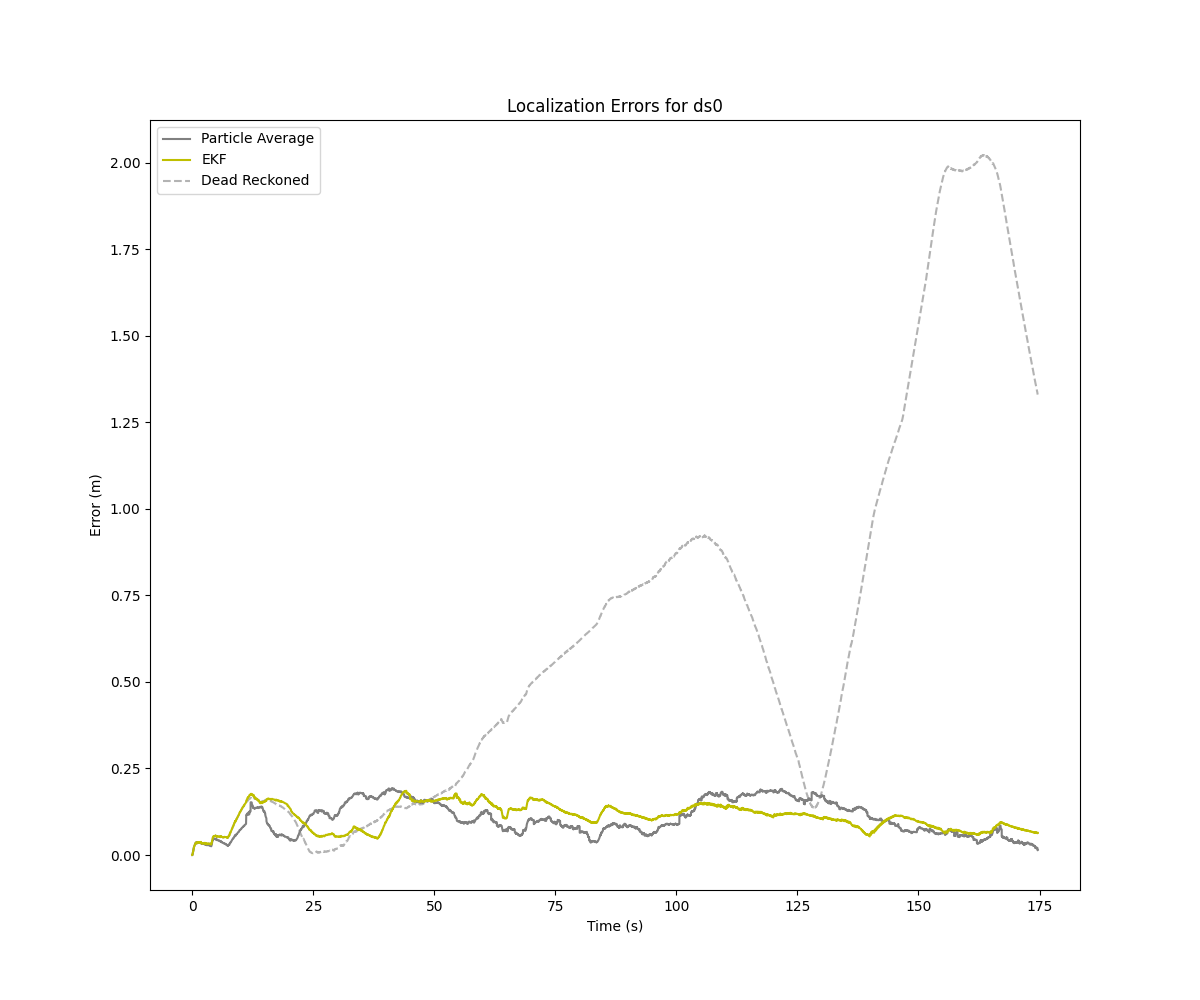
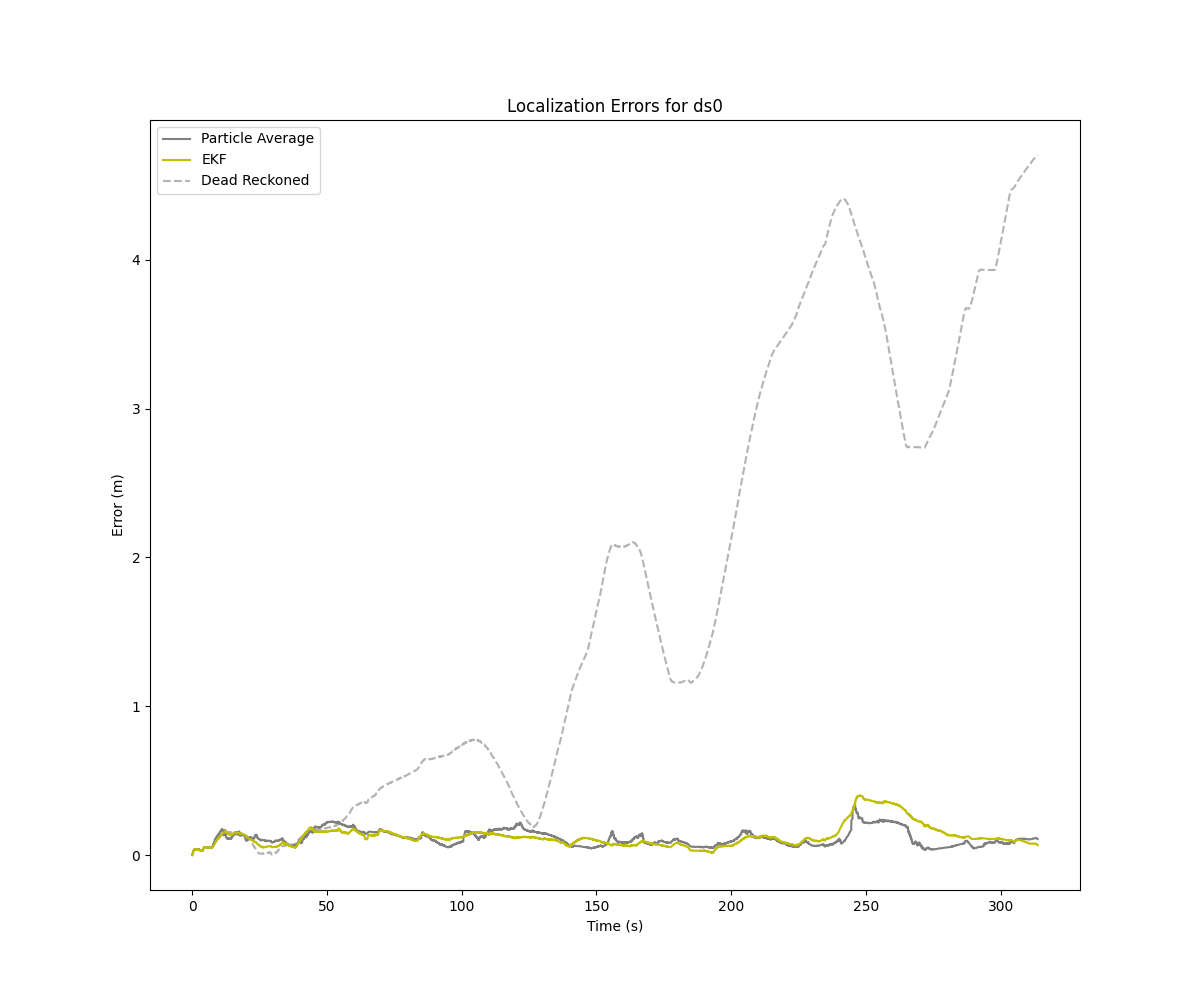
incorporate noise directly in particle motion model

diff --git a/hw0/bayes_filter.py b/hw0/bayes_filter.py
@@ -8,25 +8,70 @@ file_prefix = f'{config.DATASET}/{config.DATASET}_'
 landmarks = read_landmark_gt(file_prefix + 'Landmark_Groundtruth.dat')
 subject_lookup = read_barcodes(file_prefix + 'Barcodes.dat')
 
-##################################################
-# Bayes Filter Classes
-##################################################
-
 class ParticleFilter(object):
     """The basic particle filter, a variant of the Bayes filter based on importance sampling
 
     Attributes:
         n: number of particles
-        particles: a numpy array of all particle states at any given time
-        step_noise: noise applied to particles after each step
-        sigmas: sensor model std devs
+        particles: a numpy array of all particle poses
+        sigmas: sensor model noise parameters
+        alphas: motion model noise parameters
     """
-    def __init__(self, state=[], n=3, step_noise=[], sigmas=[]):
+    def __init__(self, state=[], n=100, alphas=[], sigmas=[]):
         self.n = n
         self.particles = np.full((self.n, len(state)), state)
-
-        self.step_noise = step_noise
         self.sigmas = sigmas
+        self.alphas = alphas
+        
+    def motion_update(self, ut, dt):
+        """Particle motion update
+
+        Table 5.6 in Probabilistic Robotics
+
+        Args:
+            ut: the commanded control
+            dt: the duration to apply the control (s)
+        """
+        for i, p in enumerate(self.particles):
+            dx = ut[0] * dt
+            dy = ut[1] * dt
+            dtheta = ut[2] * dt
+
+            rot1 = atan2(dy, dx)
+            trans = sqrt(pow(dx, 2) + pow(dy, 2))
+            rot2 = dtheta - rot1
+
+            rot1hat = np.random.normal(rot1, sqrt(self.alphas[0]*pow(rot1, 2) +
+                                                  self.alphas[1]*pow(trans, 2)))
+            transhat = np.random.normal(trans, sqrt(self.alphas[2]*pow(trans, 2) +
+                                                    self.alphas[3]*pow(rot1, 2) +
+                                                    self.alphas[3]*pow(rot2, 2)))
+            rot2hat = np.random.normal(rot2, sqrt(self.alphas[0]*pow(rot2, 2) +
+                                                  self.alphas[1]*pow(trans, 2)))
+
+            p[0] += transhat * cos(p[2] + rot1hat)
+            p[1] += transhat * sin(p[2] + rot1hat)
+            p[2] += rot1hat + rot2hat
+
+    def measurement_update(self, zt):
+        """Particle measurement update
+
+        Assumes all measurements taken at same time as control step
+
+        Args:
+            zt: the measurement data as a list of features
+        """
+        if len(zt) > 0:
+            weights = np.full((self.n,), 1/self.n)
+            for i in range(self.n):
+                weights[i] = self.importance_factor(zt, self.particles[i])
+
+            # Normalize weights and resample
+            weights = np.divide(weights, sum(weights))
+            # Copy to prevent sampling from new set
+            tmp = np.copy(self.particles)
+            for i in range(self.n):
+                self.particles[i] = self.particle_sample(tmp, weights)
         
     def update(self, ut, dt, zt):
         """Step forward with the particle filter algorithm
@@ -36,57 +81,44 @@ class ParticleFilter(object):
             dt: the time to apply the control
             zt: the measurement data as a list of features
         """
-        if len(zt) > 0:
-            weights = np.full((self.n,), 1/self.n)
-            for i in range(self.n):
-                xt = self.particle_preview(self.particles[i], ut, dt)
-                weights[i] = self.importance_factor(zt, xt)
+        self.motion_update(ut, dt)
+        self.measurement_update(zt)
 
-            # Normalize weights and resample
-            if weights.sum() != 0:
-                weights = np.divide(weights, sum(weights))
-                # Copy to prevent sampling from new set
-                tmp = np.copy(self.particles)
-                for i in range(self.n):
-                    self.particles[i] = self.particle_sample(tmp, weights)
-            
-        # Step all particles forward and add noise
-        self.particle_step(ut, dt)
-        self.add_noise()
-
-    def importance_factor(self, fz, phat):
+    def importance_factor(self, fz, pose):
         """Compute the likelihood of a measurement
     
         Args:
             fz: the measurement
-            phat: a pose
+            pose: the robot pose
 
         Returns:
-            The probability p(f(z) | phat, M )
+            The probability p( fz | pose, map)
         """
         l = 1.0
         for fi in fz:
-            l = l * self.compute_feature_likelihood(fi, phat)
+            l = l * self.compute_feature_likelihood(fi, pose)
         return l
     
-    def compute_feature_likelihood(self, f, phat):
+    def compute_feature_likelihood(self, f, pose):
         """Computes the likelihood of a single feature f
-    
+
+        Table 6.4 in Probabilistic Robotics
+
         Args:
             f: the feature
-            phat: a hypothetical pose [x,y,heading]
+            pose: the robot pose
     
         Returns:
-            The probability p(f | phat, M )
+            The probability p( f | pose, map )
         """
         landmark = landmarks[subject_lookup[f[2]]]
 
-        dx = landmark[0] - phat[0]
-        dy = landmark[1] - phat[1]
+        dx = landmark[0] - pose[0]
+        dy = landmark[1] - pose[1]
 
         # Expected range and bearing measurements
         rhat = sqrt(pow(dx, 2) + pow(dy, 2))
-        phihat = atan2(dy, dx) - phat[2]
+        phihat = atan2(dy, dx) - pose[2]
 
         # Range and bearing diffs
         dr = f[0] - rhat
@@ -94,41 +126,17 @@ class ParticleFilter(object):
         
         return norm_pdf(dr, self.sigmas[0]) * norm_pdf(dphi, self.sigmas[1])
 
-    def add_noise(self):
-        """Add noise to all particle poses"""
-        self.particles = np.random.normal(self.particles, self.step_noise)
-        
-    def particle_step(self, ut, dt):
-        """Step all particles forward one step
-
-        Args:
-            ut: command velocities
-            dt: amount of time to apply command
-        """
-        for p in self.particles:
-            p[0] += cos(p[2]) * ut[0] * dt
-            p[1] += sin(p[2]) * ut[0] * dt
-            p[2] += ut[2] * dt
-
-    def particle_preview(self, p, ut, dt):
-        """Preview a particle step
-
-        Args:
-            ut: command velocities
-            dt: amount of time to apply command
-        """
-        return [p[0] + cos(p[2]) * ut[0] * dt,
-                p[1] + sin(p[2]) * ut[0] * dt,
-                p[2] + ut[2] * dt]
-
     def particle_sample(self, tmp, weights):
         """Select random particle from tmp
         
         Current implementation faster than np.random.choice(a, p=weights)
 
         Args:
-            tmp: a copy of the particles
-            weights: particle important factors
+            tmp: a copy of the filters particles
+            weights: indexed probabilities for each particle
+
+        Returns:
+            A weighted random sample from the particles
         """
         r = np.random.random_sample() * sum(weights)
         for i, w in enumerate(weights):
@@ -140,12 +148,12 @@ class ParticleFilter(object):
 class EKF(object):
     """The extended Kalman filter localization algorithm.
     
-    Assumes knowledge of exact correspondences.
+    Table 7.2 in Probabilistic Robotics
 
     Attributes:
-        state: the pose [x, y, theta]
-        sigmas: sensor model std devs
-        alphas: motion model noise std devs
+        state: the pose
+        alphas: motion model noise parameters
+        sigmas: sensor model noise parameters
         covariance: a numpy covariance matrix
         outlier_threshold: measurement probability used to reject outliers
     """
@@ -266,4 +274,3 @@ class EKF(object):
             self.state[2] += ut[2] * dt
         else:
             self.state = mu
-        return

diff --git a/hw0/run.py b/hw0/run.py
@@ -64,21 +64,16 @@ if __name__ == "__main__":
     dead_reckoned = Unicycle(state=pose0)
     pf = ParticleFilter(state=pose0,
                         n=100,
-                        step_noise=[0.001, 0.001, np.pi/110],
-                        sigmas=[0.2, 0.01, 0.00])
-                        # step_noise=[0.001, 0.001, np.pi/64],
-                        # sigmas=[0.2, np.pi/32, 0.0])
+                        alphas=[np.pi/4, 0.1, 0.1, np.pi/4],
+                        sigmas=[0.2, np.pi/32, 0])
     ekf = EKF(state=pose0,
               alphas=[0.1, np.pi/16, 0.1, np.pi/16],
               sigmas=[0.4, 0.2, 0.000001],
               outlier_threshold=0.08)
-              # alphas=[3.0, np.pi/12, 3.0, np.pi/12],
-              # sigmas=[0.6, 0.2, 0.000001],
-              # outlier_threshold=0.1)
 
     # Path histories
-    dr_path = []
     gt_path = []
+    dr_path = []
     ekf_path = []
     pf_paths = [[] for i in range(len(pf.particles))]
     pf_avg_path = []
@@ -91,16 +86,28 @@ if __name__ == "__main__":
     
     # Control loop
     loopt0 = time.time()
-    tstart = odometry_data[0][0]
-    for ic in range(num_steps - 1):
-        # Commands applied from tn to tn+1
-        t_now = odometry_data[ic][0]
-        dt = odometry_data[ic+1][0] - odometry_data[ic][0]
-        cmd_now = odometry_data[ic][1:]
-        tvals.append(t_now - tstart)
+    t_start = odometry_data[0][0]
+    for ic in range(1, num_steps):
+        # Update times and commands
+        t = odometry_data[ic][0]
+        dt = odometry_data[ic][0] - odometry_data[ic-1][0]
+        tvals.append(t - t_start)
+        ut = odometry_data[ic][1:]
         
-        # Calculate poses
-        pose_gt = gt_interp(t_now)
+        # Determine features since last loop (measurement)
+        fz = []
+        while len(measurement_data) > 0 and measurement_data[0][0] < t:
+            f = measurement_data.pop(0)
+            fz.append([f[2], f[3], f[1]])
+
+        # Update paths
+        dead_reckoned.set_command(ut)
+        dead_reckoned.control_step(dt)
+        pf.update(ut, dt, fz)
+        ekf.update(ut, dt, fz)
+
+        # Record poses
+        pose_gt = gt_interp(t)
         pose_dr = np.copy(dead_reckoned.state)
         pose_pf = np.average(pf.particles, axis=0)
         pose_ekf = np.copy(ekf.state)
@@ -112,24 +119,13 @@ if __name__ == "__main__":
 
         # Updated paths and particles (every so often)
         dr_path.append(pose_dr)
-        pf_avg_path.append(pose_pf)
         gt_path.append(pose_gt)
-        ekf_path.append(pose_ekf)
+        pf_avg_path.append(pose_pf)
         if ic % PARTICLE_RATE == 0:
             for i, p in enumerate(pf.particles):
-                pf_paths[i].append(p)
+                pf_paths[i].append(np.copy(p))
+        ekf_path.append(pose_ekf)
 
-        # Determine features since last loop (measurement)
-        fz = []
-        while len(measurement_data) > 0 and measurement_data[0][0] < t_now:
-            f = measurement_data.pop(0)
-            fz.append([f[2], f[3], f[1]])
-
-        # Update paths
-        pf.update(cmd_now, dt, fz)
-        ekf.update(cmd_now, dt, fz)
-        dead_reckoned.set_command(cmd_now)
-        dead_reckoned.control_step(dt)
     # End control loop
     
     loopt1 = time.time()

diff --git a/hw0/robots.py b/hw0/robots.py
@@ -4,17 +4,12 @@ class Unicycle(object):
     """A simple unicycle based robot
     
     Attributes:
-        q: state of the robot [x, y, heading] (m and rad)
-        v: robot velocities, [forward, lateral, angular] (m/s and rad/s)
-        dt: sample rate (seconds)
-
-       _u: commanded twist
+        state: state of the robot [x, y, heading] (m, m, rad)
+       _u: commanded velocities [forward, lateral, angular] (m/s, m/s, rad/s)
     """
     def __init__(self, state=[0,0,0]):
         self.state = np.array(state)
-        self.v = [0,0,0]
         self._u = [0,0,0]
-        self.path = []
 
     def __str__(self):
         return f"Robot [{self.position}, {self.orientation}]"
@@ -26,6 +21,6 @@ class Unicycle(object):
         self.state[1] += np.sin(self.state[2]) * self._u[0] * dt
         self.state[2] += self._u[2] * dt
 
-    def set_command(self, twist):
-        self._u = twist
+    def set_command(self, ut):
+        self._u = ut
 
